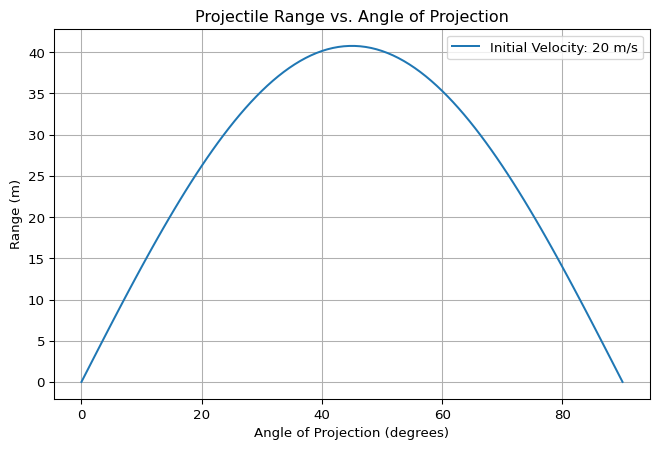
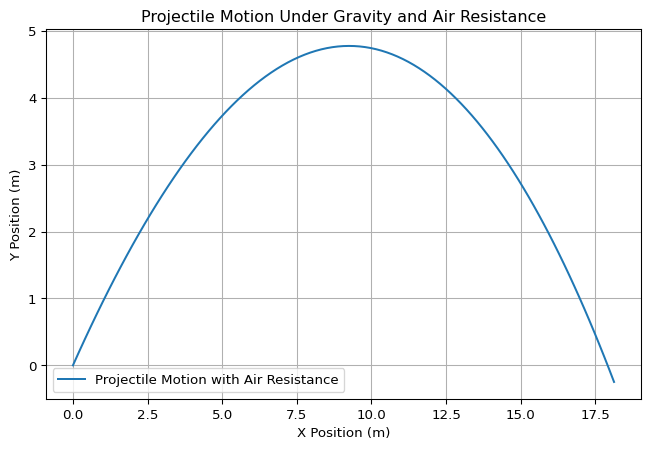
!

diff --git a/docs/1 Physics/1 Mechanics/Problem_1.html b/docs/1 Physics/1 Mechanics/Problem_1.html
@@ -141,9 +141,9 @@ window.Quarto = {
 
 <section id="investigating-the-range-as-a-function-of-the-angle-of-projection" class="level2">
 <h2 class="anchored" data-anchor-id="investigating-the-range-as-a-function-of-the-angle-of-projection">Investigating the Range as a Function of the Angle of Projection</h2>
-<section id="step-1-establish-the-theoretical-foundation" class="level3">
-<h3 class="anchored" data-anchor-id="step-1-establish-the-theoretical-foundation"><strong>Step 1: Establish the Theoretical Foundation</strong></h3>
 </section>
+<section id="step-1-establish-the-theoretical-foundation" class="level2">
+<h2 class="anchored" data-anchor-id="step-1-establish-the-theoretical-foundation"><strong>Step 1: Establish the Theoretical Foundation</strong></h2>
 </section>
 <section id="projectile-motion-with-air-resistance" class="level1">
 <h1><strong>Projectile Motion with Air Resistance</strong></h1>
@@ -257,18 +257,24 @@ T = \frac{2 v_0 \sin \theta}{g}
 <section id="derive-the-range-equation" class="level4">
 <h4 class="anchored" data-anchor-id="derive-the-range-equation"><strong>4. Derive the Range Equation</strong></h4>
 <ul>
-<li><p>The range is the horizontal distance at $ T $:</p>
+<li><p>The range is the horizontal distance at <span class="math inline">\(T\)</span>:</p>
 <p><span class="math display">\[ R = v_0 \cos\theta \cdot T \]</span></p>
 <ul>
-<li><p>Substituting $ T $:</p>
-<p><span class="math display">\[ R = \frac{v_0^2}{g} \sin 2\theta \]</span></p></li>
+<li>Substituting <span class="math inline">\(T\)</span>: <span class="math display">\[
+R = v_0 \cos \theta \cdot \frac{2 v_0 \sin \theta}{g}
+\]</span></li>
 </ul></li>
+<li><p>Using the trigonometric identity <span class="math inline">\(2 \sin \theta \cos \theta = \sin 2\theta\)</span> , we obtain:</p>
+<p><span class="math display">\[
+R = \frac{v_0^2 \sin 2\theta}{g}
+\]</span></p></li>
 </ul>
 </section>
 <section id="find-the-optimal-angle-for-maximum-range" class="level4">
 <h4 class="anchored" data-anchor-id="find-the-optimal-angle-for-maximum-range"><strong>5. Find the Optimal Angle for Maximum Range</strong></h4>
 <ul>
-<li>The range depends on $ $, which is maximized when $ 2= 90^$, or $ = 45^$.</li>
+<li>The range depends on <span class="math inline">\(\sin 2\theta\)</span>, which is maximized when <span class="math inline">\(2\theta = 90^\circ\)</span>, or <span class="math inline">\(\theta = 45^\circ\)</span>.</li>
+<li>Thus, the optimal angle for maximum range is <span class="math inline">\(45^\circ\)</span>.</li>
 </ul>
 <hr>
 </section>
@@ -277,28 +283,28 @@ T = \frac{2 v_0 \sin \theta}{g}
 <section id="varying-the-angle-from-0-to-90" class="level4">
 <h4 class="anchored" data-anchor-id="varying-the-angle-from-0-to-90"><strong>1. Varying the Angle from 0° to 90°</strong></h4>
 <ul>
-<li>Compute $ R $ for multiple angles and observe how it changes.</li>
+<li>Compute <span class="math inline">\(R\)</span> for multiple angles and observe how it changes.</li>
 </ul>
 </section>
 <section id="effects-of-initial-velocity" class="level4">
 <h4 class="anchored" data-anchor-id="effects-of-initial-velocity"><strong>2. Effects of Initial Velocity</strong></h4>
 <ul>
-<li>Increase or decrease $ v_0 $ and check how it impacts $ R $.</li>
+<li>Increase or decrease <span class="math inline">\(v_0\)</span> and check how it impacts <span class="math inline">\(R\)</span>.</li>
 </ul>
 </section>
 <section id="effects-of-gravity" class="level4">
 <h4 class="anchored" data-anchor-id="effects-of-gravity"><strong>3. Effects of Gravity</strong></h4>
 <ul>
-<li>Consider different values of $ g $ (e.g., Earth vs.&nbsp;Moon) and see how the range varies.</li>
+<li>Consider different values of <span class="math inline">\(g\)</span> (e.g., Earth vs.&nbsp;Moon) and see how the range varies.</li>
 </ul>
 </section>
 <section id="find-the-symmetry" class="level4">
 <h4 class="anchored" data-anchor-id="find-the-symmetry"><strong>4. Find the Symmetry</strong></h4>
 <ul>
-<li>The equation $ R = $ is <strong>symmetric</strong>, meaning:
+<li>The equation <span class="math inline">\(R = \frac{v_0^2}{g} \sin 2\theta\)</span> is <strong>symmetric</strong>, meaning:
 <ul>
-<li>$ = 30^$ and $ = 60^$ give the same range.</li>
-<li>$ = 20^$ and $ = 70^$ also give the same range.</li>
+<li><span class="math inline">\(\theta = 30^\circ\)</span> and <span class="math inline">\(\theta = 60^\circ\)</span> give the same range.</li>
+<li><span class="math inline">\(\theta = 20^\circ\)</span> and <span class="math inline">\(\theta = 70^\circ\)</span> also give the same range.</li>
 </ul></li>
 </ul>
 <hr>
@@ -328,36 +334,48 @@ T = \frac{2 v_0 \sin \theta}{g}
 </section>
 <section id="step-5-implementation-in-python" class="level3">
 <h3 class="anchored" data-anchor-id="step-5-implementation-in-python"><strong>Step 5: Implementation in Python</strong></h3>
-<div id="f145d0c6" class="cell" data-execution_count="1">
+<div id="6262fc97" class="cell" data-execution_count="1">
 <div class="sourceCode cell-code" id="cb1"><pre class="sourceCode python code-with-copy"><code class="sourceCode python"><span id="cb1-1"><a href="#cb1-1" aria-hidden="true" tabindex="-1"></a><span class="im">import</span> numpy <span class="im">as</span> np</span>
 <span id="cb1-2"><a href="#cb1-2" aria-hidden="true" tabindex="-1"></a><span class="im">import</span> matplotlib.pyplot <span class="im">as</span> plt</span>
-<span id="cb1-3"><a href="#cb1-3" aria-hidden="true" tabindex="-1"></a></span>
-<span id="cb1-4"><a href="#cb1-4" aria-hidden="true" tabindex="-1"></a><span class="kw">def</span> projectile_range(v0, g<span class="op">=</span><span class="fl">9.81</span>):</span>
-<span id="cb1-5"><a href="#cb1-5" aria-hidden="true" tabindex="-1"></a>    <span class="co"># Step 1: Define the range of angles</span></span>
-<span id="cb1-6"><a href="#cb1-6" aria-hidden="true" tabindex="-1"></a>    angles <span class="op">=</span> np.linspace(<span class="dv">0</span>, <span class="dv">90</span>, <span class="dv">100</span>)  <span class="co"># Angle from 0 to 90 degrees</span></span>
-<span id="cb1-7"><a href="#cb1-7" aria-hidden="true" tabindex="-1"></a>    radians <span class="op">=</span> np.radians(angles)  <span class="co"># Convert angles to radians</span></span>
-<span id="cb1-8"><a href="#cb1-8" aria-hidden="true" tabindex="-1"></a></span>
-<span id="cb1-9"><a href="#cb1-9" aria-hidden="true" tabindex="-1"></a>    <span class="co"># Step 2: Compute the projectile range for each angle</span></span>
-<span id="cb1-10"><a href="#cb1-10" aria-hidden="true" tabindex="-1"></a>    ranges <span class="op">=</span> (v0<span class="op">**</span><span class="dv">2</span> <span class="op">/</span> g) <span class="op">*</span> np.sin(<span class="dv">2</span> <span class="op">*</span> radians)</span>
-<span id="cb1-11"><a href="#cb1-11" aria-hidden="true" tabindex="-1"></a></span>
-<span id="cb1-12"><a href="#cb1-12" aria-hidden="true" tabindex="-1"></a>    <span class="co"># Step 3: Plot the results</span></span>
-<span id="cb1-13"><a href="#cb1-13" aria-hidden="true" tabindex="-1"></a>    plt.figure(figsize<span class="op">=</span>(<span class="dv">8</span>,<span class="dv">5</span>))</span>
-<span id="cb1-14"><a href="#cb1-14" aria-hidden="true" tabindex="-1"></a>    plt.plot(angles, ranges, label<span class="op">=</span><span class="ss">f'Initial Velocity: </span><span class="sc">{</span>v0<span class="sc">}</span><span class="ss"> m/s'</span>)</span>
-<span id="cb1-15"><a href="#cb1-15" aria-hidden="true" tabindex="-1"></a></span>
-<span id="cb1-16"><a href="#cb1-16" aria-hidden="true" tabindex="-1"></a>    <span class="co"># Step 4: Label axes and title</span></span>
-<span id="cb1-17"><a href="#cb1-17" aria-hidden="true" tabindex="-1"></a>    plt.xlabel(<span class="st">'Angle of Projection (degrees)'</span>)</span>
-<span id="cb1-18"><a href="#cb1-18" aria-hidden="true" tabindex="-1"></a>    plt.ylabel(<span class="st">'Range (m)'</span>)</span>
-<span id="cb1-19"><a href="#cb1-19" aria-hidden="true" tabindex="-1"></a>    plt.title(<span class="st">'Projectile Range vs. Angle of Projection'</span>)</span>
-<span id="cb1-20"><a href="#cb1-20" aria-hidden="true" tabindex="-1"></a></span>
-<span id="cb1-21"><a href="#cb1-21" aria-hidden="true" tabindex="-1"></a>    <span class="co"># Step 5: Add legend and grid</span></span>
-<span id="cb1-22"><a href="#cb1-22" aria-hidden="true" tabindex="-1"></a>    plt.legend()</span>
-<span id="cb1-23"><a href="#cb1-23" aria-hidden="true" tabindex="-1"></a>    plt.grid()</span>
-<span id="cb1-24"><a href="#cb1-24" aria-hidden="true" tabindex="-1"></a></span>
-<span id="cb1-25"><a href="#cb1-25" aria-hidden="true" tabindex="-1"></a>    <span class="co"># Step 6: Display the plot</span></span>
-<span id="cb1-26"><a href="#cb1-26" aria-hidden="true" tabindex="-1"></a>    plt.show()</span>
-<span id="cb1-27"><a href="#cb1-27" aria-hidden="true" tabindex="-1"></a></span>
-<span id="cb1-28"><a href="#cb1-28" aria-hidden="true" tabindex="-1"></a><span class="co"># Example usage</span></span>
-<span id="cb1-29"><a href="#cb1-29" aria-hidden="true" tabindex="-1"></a>projectile_range(v0<span class="op">=</span><span class="dv">20</span>)</span></code><button title="Copy to Clipboard" class="code-copy-button"><i class="bi"></i></button></pre></div>
+<span id="cb1-3"><a href="#cb1-3" aria-hidden="true" tabindex="-1"></a><span class="im">from</span> scipy.integrate <span class="im">import</span> solve_ivp</span>
+<span id="cb1-4"><a href="#cb1-4" aria-hidden="true" tabindex="-1"></a></span>
+<span id="cb1-5"><a href="#cb1-5" aria-hidden="true" tabindex="-1"></a><span class="co"># Parameters</span></span>
+<span id="cb1-6"><a href="#cb1-6" aria-hidden="true" tabindex="-1"></a>m <span class="op">=</span> <span class="fl">1.0</span>   <span class="co"># Mass (kg)</span></span>
+<span id="cb1-7"><a href="#cb1-7" aria-hidden="true" tabindex="-1"></a>g <span class="op">=</span> <span class="fl">9.81</span>  <span class="co"># Gravity (m/s^2)</span></span>
+<span id="cb1-8"><a href="#cb1-8" aria-hidden="true" tabindex="-1"></a>b <span class="op">=</span> <span class="fl">0.1</span>   <span class="co"># Air resistance coefficient (kg/s)</span></span>
+<span id="cb1-9"><a href="#cb1-9" aria-hidden="true" tabindex="-1"></a></span>
+<span id="cb1-10"><a href="#cb1-10" aria-hidden="true" tabindex="-1"></a><span class="co"># Initial conditions</span></span>
+<span id="cb1-11"><a href="#cb1-11" aria-hidden="true" tabindex="-1"></a>x0, y0 <span class="op">=</span> <span class="fl">0.0</span>, <span class="fl">0.0</span>  <span class="co"># Initial position (m)</span></span>
+<span id="cb1-12"><a href="#cb1-12" aria-hidden="true" tabindex="-1"></a>vx0, vy0 <span class="op">=</span> <span class="fl">10.0</span>, <span class="fl">10.0</span>  <span class="co"># Initial velocity (m/s)</span></span>
+<span id="cb1-13"><a href="#cb1-13" aria-hidden="true" tabindex="-1"></a></span>
+<span id="cb1-14"><a href="#cb1-14" aria-hidden="true" tabindex="-1"></a><span class="co"># Define the equations of motion with air resistance</span></span>
+<span id="cb1-15"><a href="#cb1-15" aria-hidden="true" tabindex="-1"></a><span class="kw">def</span> equations(t, state):</span>
+<span id="cb1-16"><a href="#cb1-16" aria-hidden="true" tabindex="-1"></a>    x, vx, y, vy <span class="op">=</span> state</span>
+<span id="cb1-17"><a href="#cb1-17" aria-hidden="true" tabindex="-1"></a>    dxdt <span class="op">=</span> vx</span>
+<span id="cb1-18"><a href="#cb1-18" aria-hidden="true" tabindex="-1"></a>    dvxdt <span class="op">=</span> <span class="op">-</span> (b <span class="op">/</span> m) <span class="op">*</span> vx  <span class="co"># Air resistance in x-direction</span></span>
+<span id="cb1-19"><a href="#cb1-19" aria-hidden="true" tabindex="-1"></a>    dydt <span class="op">=</span> vy</span>
+<span id="cb1-20"><a href="#cb1-20" aria-hidden="true" tabindex="-1"></a>    dvydt <span class="op">=</span> <span class="op">-</span>g <span class="op">-</span> (b <span class="op">/</span> m) <span class="op">*</span> vy  <span class="co"># Gravity and air resistance in y-direction</span></span>
+<span id="cb1-21"><a href="#cb1-21" aria-hidden="true" tabindex="-1"></a>    <span class="cf">return</span> [dxdt, dvxdt, dydt, dvydt]</span>
+<span id="cb1-22"><a href="#cb1-22" aria-hidden="true" tabindex="-1"></a></span>
+<span id="cb1-23"><a href="#cb1-23" aria-hidden="true" tabindex="-1"></a><span class="co"># Time span for simulation</span></span>
+<span id="cb1-24"><a href="#cb1-24" aria-hidden="true" tabindex="-1"></a>t_span <span class="op">=</span> (<span class="dv">0</span>, <span class="dv">2</span>)</span>
+<span id="cb1-25"><a href="#cb1-25" aria-hidden="true" tabindex="-1"></a>t_eval <span class="op">=</span> np.linspace(<span class="dv">0</span>, <span class="dv">2</span>, <span class="dv">100</span>)</span>
+<span id="cb1-26"><a href="#cb1-26" aria-hidden="true" tabindex="-1"></a></span>
+<span id="cb1-27"><a href="#cb1-27" aria-hidden="true" tabindex="-1"></a><span class="co"># Solve the system</span></span>
+<span id="cb1-28"><a href="#cb1-28" aria-hidden="true" tabindex="-1"></a>sol <span class="op">=</span> solve_ivp(equations, t_span, [x0, vx0, y0, vy0], t_eval<span class="op">=</span>t_eval)</span>
+<span id="cb1-29"><a href="#cb1-29" aria-hidden="true" tabindex="-1"></a></span>
+<span id="cb1-30"><a href="#cb1-30" aria-hidden="true" tabindex="-1"></a><span class="co"># Extract solution</span></span>
+<span id="cb1-31"><a href="#cb1-31" aria-hidden="true" tabindex="-1"></a>x, vx, y, vy <span class="op">=</span> sol.y</span>
+<span id="cb1-32"><a href="#cb1-32" aria-hidden="true" tabindex="-1"></a></span>
+<span id="cb1-33"><a href="#cb1-33" aria-hidden="true" tabindex="-1"></a><span class="co"># Plot results</span></span>
+<span id="cb1-34"><a href="#cb1-34" aria-hidden="true" tabindex="-1"></a>plt.figure(figsize<span class="op">=</span>(<span class="dv">8</span>, <span class="dv">5</span>))</span>
+<span id="cb1-35"><a href="#cb1-35" aria-hidden="true" tabindex="-1"></a>plt.plot(x, y, label<span class="op">=</span><span class="st">"Projectile Motion with Air Resistance"</span>)</span>
+<span id="cb1-36"><a href="#cb1-36" aria-hidden="true" tabindex="-1"></a>plt.xlabel(<span class="st">"X Position (m)"</span>)</span>
+<span id="cb1-37"><a href="#cb1-37" aria-hidden="true" tabindex="-1"></a>plt.ylabel(<span class="st">"Y Position (m)"</span>)</span>
+<span id="cb1-38"><a href="#cb1-38" aria-hidden="true" tabindex="-1"></a>plt.title(<span class="st">"Projectile Motion Under Gravity and Air Resistance"</span>)</span>
+<span id="cb1-39"><a href="#cb1-39" aria-hidden="true" tabindex="-1"></a>plt.legend()</span>
+<span id="cb1-40"><a href="#cb1-40" aria-hidden="true" tabindex="-1"></a>plt.grid()</span>
+<span id="cb1-41"><a href="#cb1-41" aria-hidden="true" tabindex="-1"></a>plt.show()</span></code><button title="Copy to Clipboard" class="code-copy-button"><i class="bi"></i></button></pre></div>
 <div class="cell-output cell-output-display">
 <div>
 <figure class="figure">
@@ -365,12 +383,6 @@ T = \frac{2 v_0 \sin \theta}{g}
 </figure>
 </div>
 </div>
-</div>
-<div class="quarto-figure quarto-figure-center">
-<figure class="figure">
-<p><img src="img.png" class="img-fluid figure-img"></p>
-<figcaption>img.png</figcaption>
-</figure>
 </div>
 <hr>
 </section>
